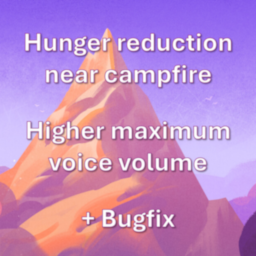
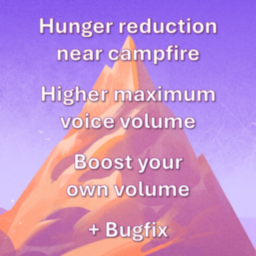
0.2.0

diff --git a/src/PeakTweaks/Patches/CampfireHungerReduction.cs b/src/PeakTweaks/Patches/CampfireHungerReduction.cs
@@ -14,26 +14,26 @@ public class CampfireHungerReduction : ModPatch {
 
     public override bool ShouldLoad(ConfigFile config) {
         bool enabled = config.Bind(
-            "Everyone",
-            "Campfire Hunger Reduction",
-            false,
-            "Reduce hunger gain while close to a campfire." +
+            section: "Everyone",
+            key: "Campfire Hunger Reduction",
+            defaultValue: false,
+            description: "Reduce hunger gain while close to a campfire." +
             "\nUseful to avoid starvation while waiting for that *one guy* to catch up. It's always him." +
             "\n*Might* work when not everyone has this, but might also cause desyncs. I dunno."
             ).Value;
 
         CampfireHungerMultiplier = config.Bind(
-            "Everyone",
-            "Campfire Hunger Reduction Multiplier",
-            0.5f,
-            "Multiply hunger gain near campfires by this amount." +
+            section: "Everyone",
+            key: "Campfire Hunger Reduction Multiplier",
+            defaultValue: 0.5f,
+            description: "Multiply hunger gain near campfires by this amount." +
             "\nCan be 0 to pause hunger entirely, or a negative value like -1 to regenerate hunger near the campfire."
             ).Value;
         CampfireHungerReductionRange = config.Bind(
-            "Everyone",
-            "Campfire Hunger Reduction Range",
-            15f,
-            "Range of the hunger reduction effect, in in-game meters."
+            section: "Everyone",
+            key: "Campfire Hunger Reduction Range",
+            defaultValue: 15f,
+            description: "Range of the hunger reduction effect, in in-game meters."
             ).Value / CharacterStats.unitsToMeters;
 
         return enabled && CampfireHungerMultiplier != 1 && CampfireHungerReductionRange > 0;
@@ -41,8 +41,7 @@ public class CampfireHungerReduction : ModPatch {
 
     [HarmonyPatch(typeof(Campfire), nameof(Campfire.Awake))]
     [HarmonyPrefix]
-    public static void Campfire_Awake(Campfire __instance) {
-        // TODO: Replace existing trackers when hot-reloading
+    private static void Campfire_Awake(Campfire __instance) {
         CampfireProximityTracker.CreateAndAttachToCampfire(__instance, CampfireHungerReductionRange);
     }
 
@@ -75,14 +74,26 @@ public class CampfireHungerReduction : ModPatch {
         }
         return true;
     }
+
+    // For hot-reloading
+    public override void Init() {
+        // Won't find anything at first Init, but might after a hot-reload.
+        Object.FindObjectsByType<Campfire>(FindObjectsSortMode.None)
+            .Do(c => CampfireProximityTracker.CreateAndAttachToCampfire(c, CampfireHungerReductionRange));
+    }
+    public override void DeInit() {
+        Object.FindObjectsByType<CampfireProximityTracker>(FindObjectsSortMode.None)
+            .Do(Object.Destroy);
+    }
 }
 
 public class CampfireProximityTracker : MonoBehaviour {
     public static HashSet<Character> charactersNearCampfires = [];
+
     public static void CreateAndAttachToCampfire(Campfire campfire, float range) {
         Plugin.Log.LogDebug($"Attaching Proximity Tracker to {campfire.name}");
-        GameObject triggerZone = new($"({Plugin.Name}) CampfireHungerProximityTrigger");
-        CampfireProximityTracker tracker = triggerZone.AddComponent<CampfireProximityTracker>();
+
+        CampfireProximityTracker tracker = campfire.gameObject.AddComponent<CampfireProximityTracker>();
         tracker.Initialize(campfire, range);
     }
 

diff --git a/src/PeakTweaks/Patches/ChangeOwnMicVolume.cs b/src/PeakTweaks/Patches/ChangeOwnMicVolume.cs
@@ -1,0 +1,72 @@
+using BepInEx.Configuration;
+
+using HarmonyLib;
+
+using Photon.Voice.Unity.UtilityScripts;
+
+using UnityEngine;
+
+namespace PeakTweaks.Patches;
+
+public class ChangeOwnMicVolume : ModPatch {
+    public static float NewVolume;
+
+    public override bool ShouldLoad(ConfigFile config) {
+        NewVolume = config.Bind(
+            section: "Client",
+            key: "Microphone Volume",
+            defaultValue: 100.0f,
+            description: "Change your microphone's output volume to your friends."
+            //"\nNote: There is perceived loudness compensation; so a value of 200% should truly sound 2x louder"
+            ).Value / 100; // 100% -> 1.0, 200% -> 2.0, etc
+        return !Mathf.Approximately(NewVolume, 1f);
+    }
+
+    // Volume perception is logarithmic and stuff; multiplying a sample by
+    // 10x only increases the human-perceived loudness by ~2x
+    private static float VolumeMultiplierFromPerceivedVolumeIncrease(float perceivedMultiplier) {
+        return Mathf.Pow(10, Mathf.Log(perceivedMultiplier, 2));
+    }
+
+    [HarmonyPatch(typeof(CharacterVoiceHandler), nameof(CharacterVoiceHandler.Start))]
+    [HarmonyPrefix] // Has to happen before Recorder is initialized; PhotonVoice will look for a MicAmplifier component or something
+    public static void CharacterVoiceHandler_Start(CharacterVoiceHandler __instance) {
+        // m_character is not initialized yet so we have to grab it ourselves
+        Character? character = __instance.GetComponentInParent<Character>();
+        if (character == null || character.IsLocal == false) {
+            return;
+        }
+
+        Plugin.Log.LogInfo($"Boosting your microphone's volume by {NewVolume:F2}x...");
+        float multiplier = VolumeMultiplierFromPerceivedVolumeIncrease(NewVolume);
+
+        Plugin.Log.LogDebug($"Adding MicAmplifier component for {character?.name}; AmplificationFactor = {multiplier}");
+        MicAmplifier micAmplifier = __instance.gameObject.AddComponent<MicAmplifier>();
+        micAmplifier.AmplificationFactor = multiplier;
+    }
+
+
+    // For hot-reloading
+    public override void Init() {
+        MicAmplifier? micAmplifier = Character.localCharacter
+            ?.GetComponentInChildren<CharacterVoiceHandler>()
+            ?.gameObject?.GetComponent<MicAmplifier>();
+
+        if (micAmplifier != null) {
+            float multiplier = VolumeMultiplierFromPerceivedVolumeIncrease(NewVolume);
+            Plugin.Log.LogDebug($"Found MicAmplifier component; setting new AmplificationFactor: {multiplier}");
+            micAmplifier.AmplificationFactor = multiplier;
+        }
+    }
+    public override void DeInit() {
+        MicAmplifier? micAmplifier = Character.localCharacter
+            ?.GetComponentInChildren<CharacterVoiceHandler>()
+            ?.gameObject?.GetComponent<MicAmplifier>();
+
+        if (micAmplifier != null) {
+            // Can't really delete it because
+            // the Recorder has already been created
+            micAmplifier.AmplificationFactor = 1f;
+        }
+    }
+}

diff --git a/src/PeakTweaks/Patches/TweakVoiceVolume.cs b/src/PeakTweaks/Patches/TweakVoiceVolume.cs
@@ -12,23 +12,21 @@ public class TweakVoiceVolume : ModPatch {
 
     public override bool ShouldLoad(ConfigFile config) {
         NewMaxValue = config.Bind(
-            "Client",
-            "Maximum Voice Volume",
-            400f,
-            "Increase the maximum volume you can set other player's voice volume to.\n" +
-            "Set to the game's default value of 200 to disable."
+            section: "Client",
+            key: "Maximum Voice Volume",
+            defaultValue: 400f,
+            description: "Increase the maximum volume you can set other players' voice volume to." +
+            "\nSet to the game's default value of 200 to disable."
             ).Value / 200; // Game maps out 0%-200% to 0-1 on the volume
 
-        return NewMaxValue != 1;
+        return NewMaxValue != 1; // 200%
     }
-
 
     [HarmonyPatch(typeof(AudioLevelSlider), nameof(AudioLevelSlider.Awake))]
     [HarmonyPostfix]
     public static void AudioLevelSlider_Awake(AudioLevelSlider __instance) {
         __instance.slider.maxValue = NewMaxValue;
     }
-
 
     [HarmonyPatch(typeof(AudioLevelSlider), nameof(AudioLevelSlider.OnSliderChanged))]
     [HarmonyPrefix]
@@ -58,5 +56,18 @@ public class TweakVoiceVolume : ModPatch {
             __instance.percent.text = Mathf.RoundToInt(newValue * 200f).ToString() + "%";
         }
         return false;
+    }
+
+    // For hot-reloading
+    public override void Init() {
+        Object.FindObjectsByType<AudioLevelSlider>(FindObjectsSortMode.None)
+            .Do(instance => instance.slider.maxValue = NewMaxValue);
+    }
+    public override void DeInit() {
+        Object.FindObjectsByType<AudioLevelSlider>(FindObjectsSortMode.None)
+            .Do(instance => {
+                instance.slider.maxValue = 1;
+                instance.slider.value = Mathf.Min(1, instance.slider.value);
+            });
     }
 }

diff --git a/src/PeakTweaks/Patches/BananaPeelFix.cs b/src/PeakTweaks/Patches/BananaPeelFix.cs
@@ -7,10 +7,10 @@ namespace PeakTweaks.Patches;
 public class BananaPeelFix : ModPatch {
     public override bool ShouldLoad(ConfigFile config) {
         ConfigEntry<bool> enabled = config.Bind(
-            "Client",
-            "Banana Peel Join Fix",
-            true,
-            "Fix a bug that made it impossible to join a lobby if a banana peel existed anywhere.");
+            section: "Client",
+            key: "Banana Peel Join Fix",
+            defaultValue: true,
+            description: "Fix a bug that made it impossible to join a lobby if a banana peel existed anywhere.");
         return enabled.Value;
     }
 

diff --git a/src/PeakTweaks/PatchLoader.cs b/src/PeakTweaks/PatchLoader.cs
@@ -32,8 +32,11 @@ public static class PatchLoader {
         Plugin.Log.LogDebug($"Found {modPatchTypes.Count} Patches");
 
         foreach (var patchClass in modPatchTypes) {
-            ModPatch? patch = Activator.CreateInstance(patchClass) as ModPatch;
-            if (patch == null || !patch.ShouldLoad(config)) {
+            if (Activator.CreateInstance(patchClass) is not ModPatch patch) {
+                continue;
+            }
+
+            if (!patch.ShouldLoad(config)) {
                 continue;
             }
 

diff --git a/README.md b/README.md
@@ -20,6 +20,12 @@ A handful of tweaks and fixes to make your Quality of Life a little better.
 
   Careful with the numbers, things can get loud quickly. But loud = funny!
 
+- ### Boost microphone volume
+
+  You can change your own microphone's volume.
+
+  Note: There is perceived loudness compensation; so a value of 200% should truly sound 2x louder
+
 - ### Fix joining with a Banana Peel in the map
 
   If you tried to join an ongoing expedition with a banana peel anywhere in the map,
@@ -29,7 +35,5 @@ A handful of tweaks and fixes to make your Quality of Life a little better.
 
 ## Possibly Future Features
 
-- Geysers acting as a heat source
 - A kick button; or something else to deal with AFK players.
-- Ablity to boost your own microphone's volume
 - A bunch of other ideas I had have already been covered by other mods ¯\\\_(ツ)_/¯

diff --git a/CHANGELOG.md b/CHANGELOG.md
@@ -1,5 +1,9 @@
 # Changelog
 
+## 0.2.0
+
+- Added the ability to boost your own Microphone's volume
+
 ## 0.1.0
 
 - Added Banana Peel Join Fix
